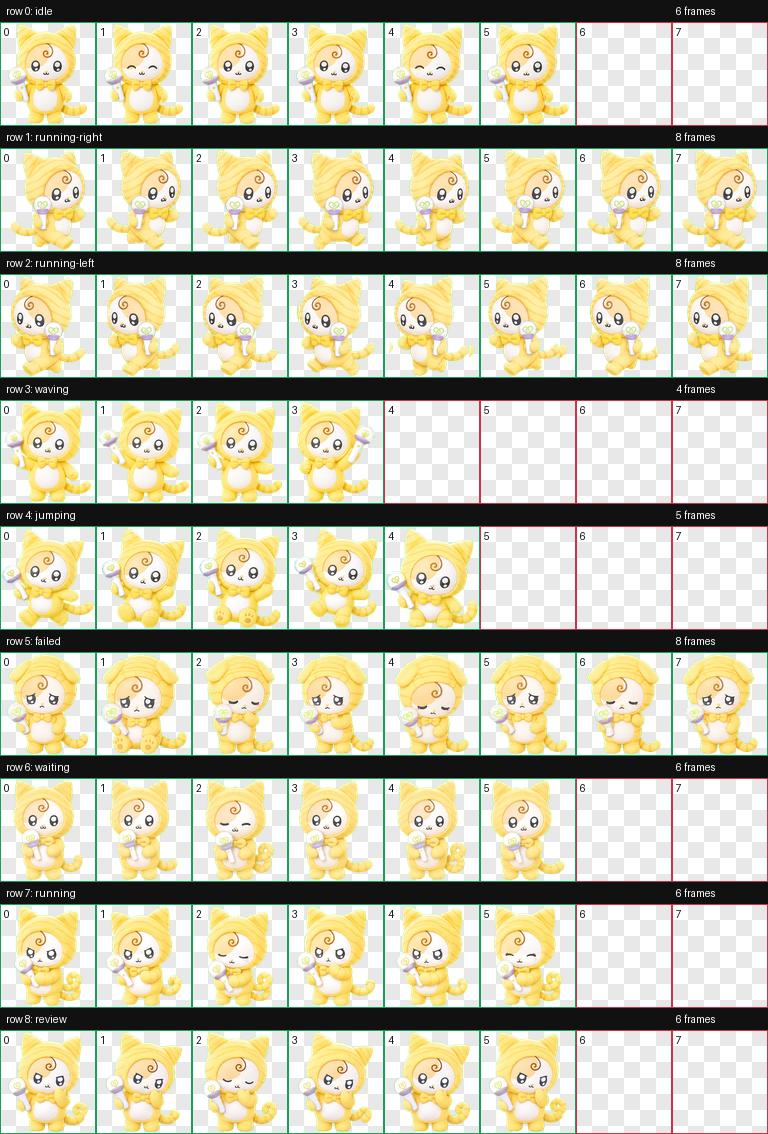
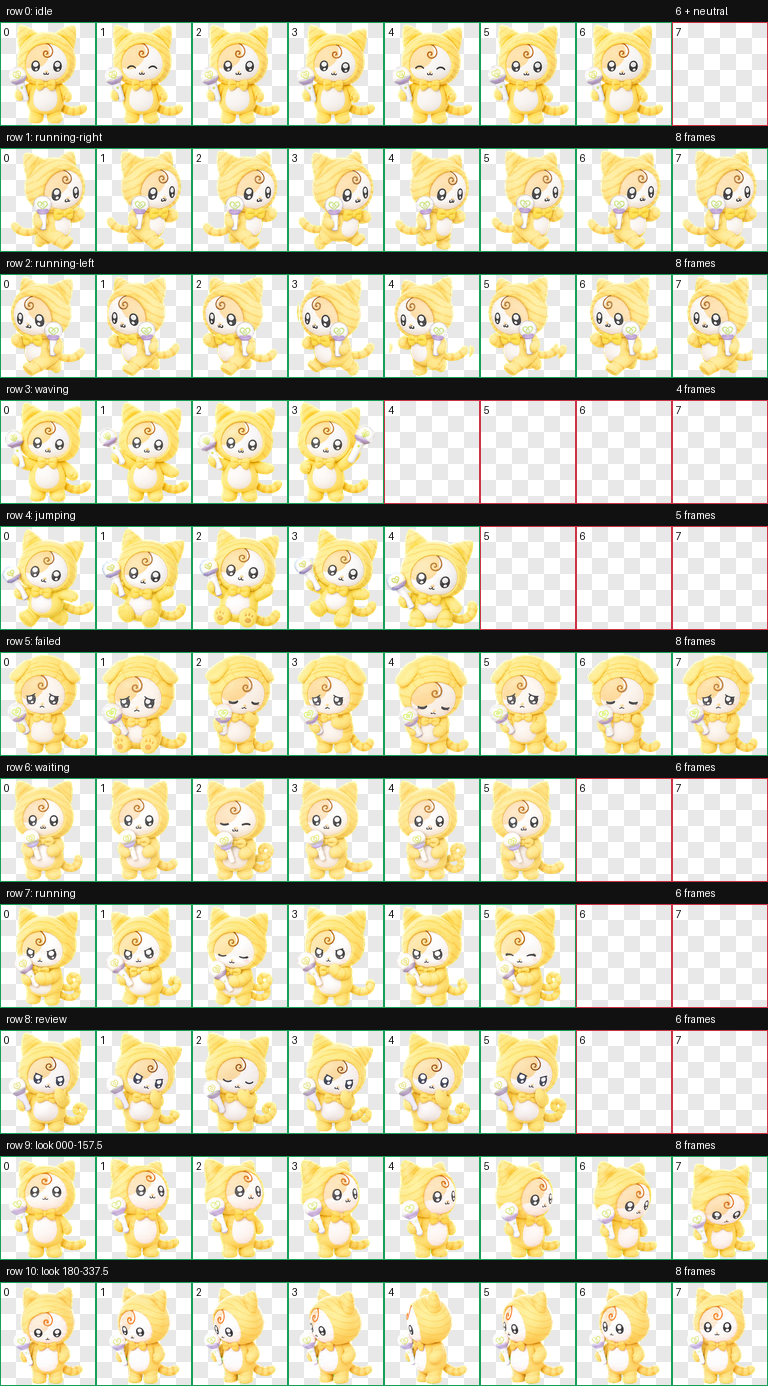
Upgrade pet to v2 with look directions

diff --git a/README.md b/README.md
@@ -2,11 +2,21 @@
 
 아이유 팬클럽 캐릭터 설정을 바탕으로 만든 Codex용 커스텀 펫의 응원봉 소품 버전입니다.
 
+현재 패키지는 Codex Pet v2 규격을 사용하며, 기존 9개 애니메이션과 16개 시선 방향을 포함합니다.
+
+## 버전 정보
+
+- `spriteVersionNumber`: 2
+- 스프라이트시트: 8열 × 11행, 1536 × 2288
+- 기본 애니메이션: 9종
+- 시선 방향: 16개
+
 ## 포함 파일
 
 - `pet.json`: Codex 펫 메타데이터
 - `spritesheet.webp`: Codex 펫 애니메이션 스프라이트시트
 - `contact-sheet.png`: 전체 애니메이션 프레임 확인용 이미지
+- `look-directions.png`: 16개 시선 방향 확인용 이미지
 
 ## 적용 방법
 
